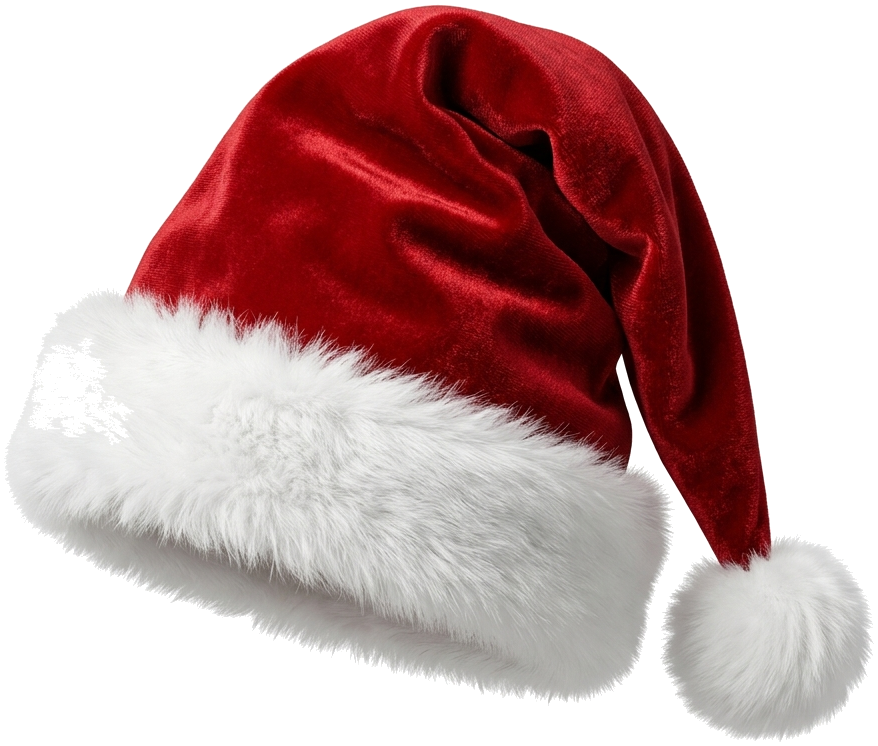
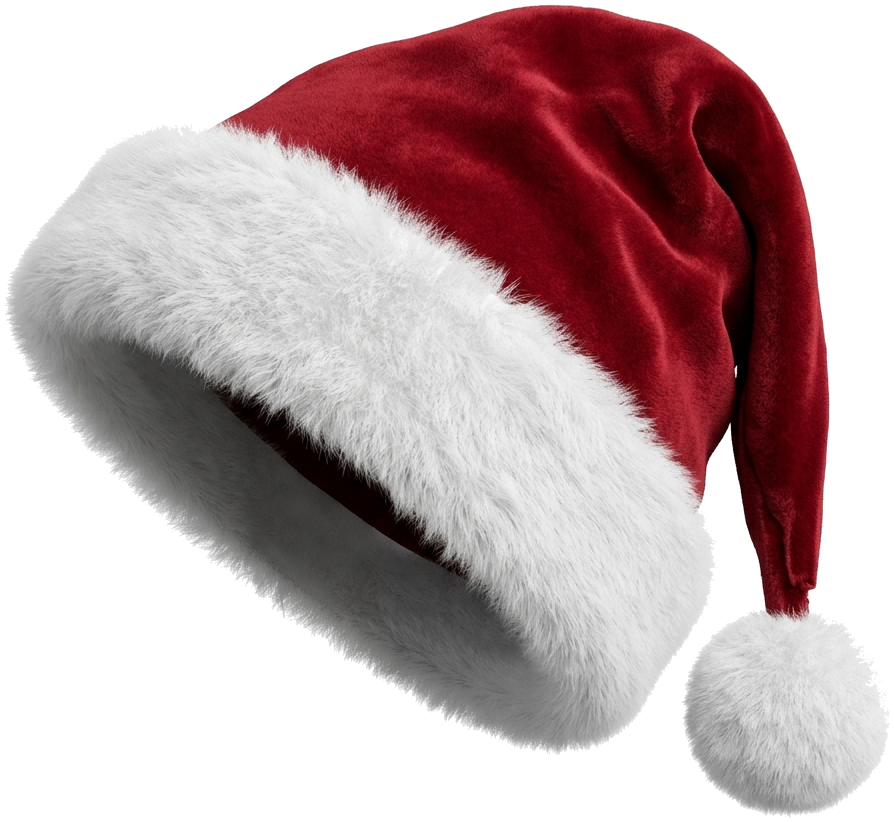
fix(header): vestir gorro natalino perfeitamente na ponta direita do icone C2Tech

diff --git a/src/components/Header.tsx b/src/components/Header.tsx
@@ -719,8 +719,8 @@ export const Header: React.FC = () => {
                     alt="Logo C2Tech"
                     className="w-9 h-9 rounded-xl object-cover shadow-2xs transition-transform duration-300 group-hover:scale-105 shrink-0"
                   />
-                  {/* Chapeuzinho Natalino C2Tech */}
-                  <SantaHat className="absolute -top-[13px] -left-[2px] w-[31px] h-auto drop-shadow-md transition-transform duration-300 group-hover:scale-105 z-10" />
+                  {/* Chapeuzinho Natalino C2Tech: Vestido na ponta direita do ícone */}
+                  <SantaHat className="absolute -top-[11px] -right-[5px] w-[30px] h-auto pointer-events-none drop-shadow-md transition-transform duration-300 transform rotate-[16deg] group-hover:rotate-[21deg] group-hover:scale-105 z-10" />
                 </div>
                 <div className="flex flex-col justify-center">
                   <span className="font-display font-black text-[21px] text-slate-900 tracking-tight leading-none">
@@ -988,7 +988,7 @@ export const Header: React.FC = () => {
               <div className="flex items-center gap-2">
                 <div className="relative shrink-0">
                   <img src="/images/logo.png" alt="C2Tech" className="w-7 h-7 rounded-lg object-cover" />
-                  <SantaHat className="absolute -top-[10px] -left-[2px] w-[25px] h-auto drop-shadow-md z-10" />
+                  <SantaHat className="absolute -top-[9px] -right-[4px] w-[24px] h-auto pointer-events-none drop-shadow-md z-10 transform rotate-[16deg]" />
                 </div>
                 <span className="font-display font-black text-slate-900 text-lg">C2Tech</span>
               </div>

diff --git a/src/components/Footer.tsx b/src/components/Footer.tsx
@@ -48,8 +48,8 @@ export const Footer: React.FC = () => {
                     alt="Logo C2Tech" 
                     className="w-10 h-10 rounded-xl object-cover shadow-[0_0_15px_rgba(7,212,243,0.25)] group-hover:scale-105 transition-transform duration-300" 
                   />
-                  {/* Chapeuzinho Natalino C2Tech */}
-                  <SantaHat className="absolute -top-[15px] -left-[2px] w-[35px] h-auto drop-shadow-md transition-transform duration-300 group-hover:scale-105 z-10" />
+                  {/* Chapeuzinho Natalino C2Tech: Vestido na ponta direita do ícone */}
+                  <SantaHat className="absolute -top-[13px] -right-[6px] w-[34px] h-auto pointer-events-none drop-shadow-md transition-transform duration-300 transform rotate-[16deg] group-hover:rotate-[21deg] group-hover:scale-105 z-10" />
                 </div>
               </Link>
               <div className="space-y-3">
